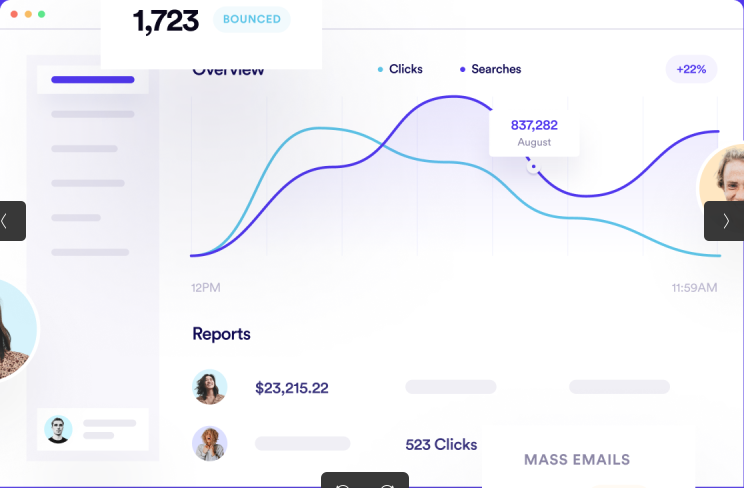
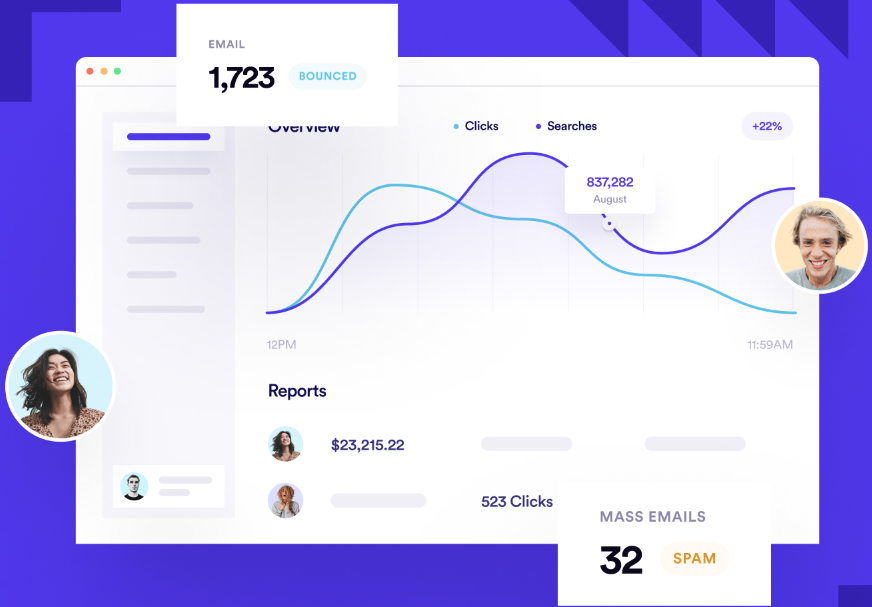
deleted:    assets/email.png 	deleted:    assets/man.png 	modified:   assets/overview.png 	deleted:    assets/spam.png 	deleted:    assets/woman.png 	modified:   public/register-style.css 	modified:   public/register.html

diff --git a/public/register.html b/public/register.html
@@ -99,7 +99,7 @@
                             <div class="dots"></div>
                           </div>  
                 </div>
-                  
+              
                 <div class="text">
                     <p class="presentation-moto">Turn your ideas <br> into reality.</h2>
                     <p class="presentation-description">Consistent quality and experience across <br><br> all platforms and devices.</p>

diff --git a/public/register-style.css b/public/register-style.css
@@ -377,3 +377,19 @@ input[type="password"], input[type="text"]  {
   position: absolute;
   left:92.2%;
 }
+.image-container{
+  width:100%;
+  height:100%;
+  flex-direction: column;
+  justify-content: center;
+  align-items: center;
+  position: absolute;
+}
+
+.overview{
+  width:85%;
+  height:90%;
+  position: absolute;
+  top:19%;
+  left:0%;
+}
